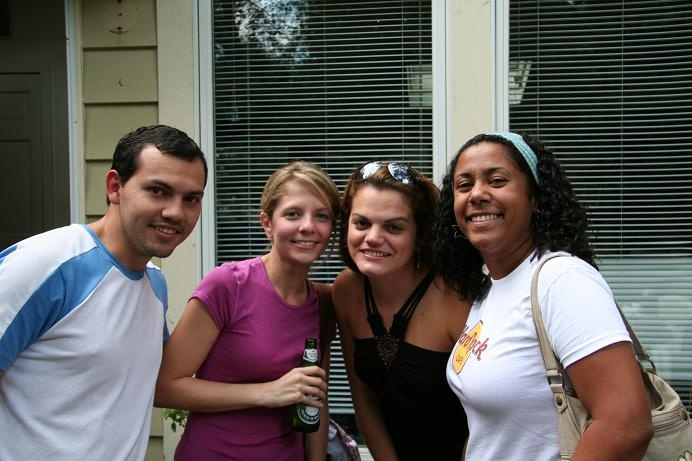
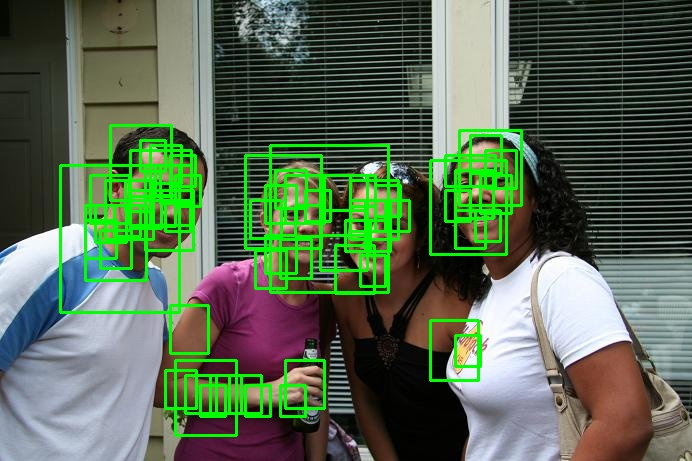
Drawing now works

Changed region(s): [[0.0607, 0.243, 0.4855, 0.9718], [0.3338, 0.2733, 0.7587, 0.6681], [0.6069, 0.6681, 0.698, 0.8503]]

diff --git a/test2.py b/test2.py
@@ -262,10 +262,16 @@ def detect_faces_cascade(image, cascade, scale_factor=1.25, step_size=5, overlap
         normalized_boxesyay = np.array(normalize_boxes(detected_faces, w, h))
         result_boxes, result_scores, result_labels = prepare_boxes(normalized_boxesyay, detected_scores, predicted_labels)
         
-        filtered_boxes = nms_float_fast(result_boxes, detected_scores, overlapThresh)
-        #print("after NMS", len(filtered_boxes))
-    return filtered_boxes
+        keep_indices  = nms_float_fast(result_boxes, detected_scores, overlapThresh)
 
+        filtered_boxes = result_boxes[keep_indices]
+        # Denormalize boxes for drawing
+        final_boxes = []
+        for box in filtered_boxes:
+            x1, y1, x2, y2 = box
+            final_boxes.append([int(x1 * w), int(y1 * h), int(x2 * w), int(y2 * h)])
+
+        return final_boxes
 
 
 
@@ -278,25 +284,26 @@ def calculate_precision_recall(true_positives, false_positives, false_negatives)
     return precision, recall
 
 
+
+
+
 if __name__ == "__main__":
-    # Datasets
+    # Datasets and model loading
     face_photos_dir = os.path.join(data_directory, 'test_face_photos')
     output_dir = os.path.join(data_directory, 'output')
     cropped_faces_dir = os.path.join(data_directory, 'test_cropped_faces')
     nonfaces_dir = os.path.join(data_directory, 'test_nonfaces')
 
-    # Load the model
     model_dataCascade = load_model()
     model = model_dataCascade['model']
     
-    # Ensure output directory exists
     if not os.path.exists(output_dir):
         os.makedirs(output_dir)
 
-    # Import annotations
     annotations = import_annotations(os.path.join(face_photos_dir, 'face_annotations.py'))
     tp_face_photos, fp_face_photos, fn_face_photos = 0, 0, 0
 
+    # Process each image
     for annotation in annotations:
         photo_file_name = annotation['photo_file_name']
         true_faces = annotation['faces']
@@ -307,49 +314,42 @@ if __name__ == "__main__":
             print(f"Failed to load image: {image_path}")
             continue
 
-        print(f"Image loaded successfully: {image_path}")
-
-        detected_faces = detect_faces_cascade(image, model)  # Modified to use the cascade
-        #print("All detected faces:", detected_faces)  # Debug output to see the entire list
+        detected_faces = detect_faces_cascade(image, model)
+        print("after all is said and done we have ", len(detected_faces), " bounding boxes")
+        print("first bounding box ", detected_faces[0])
+        filtered_detected_faces = [box for box in detected_faces if isinstance(box, (list, np.ndarray)) and len(box) == 4]
 
         detected_flags = [False] * len(true_faces)
 
-        for detected_box in detected_faces:
-            if isinstance(detected_box, (list, np.ndarray)) and len(detected_box) == 4:
-                match_found = False
-                for idx, true_box in enumerate(true_faces):
-                    iou = calculate_iou(detected_box, true_box)
-                    if iou > 0.5:
-                        tp_face_photos += 1
-                        detected_flags[idx] = True
-                        match_found = True
-                        break
-                if not match_found:
-                    fp_face_photos += 1
+        for detected_box in filtered_detected_faces:
+            match_found = False
+            for idx, true_box in enumerate(true_faces):
+                iou = calculate_iou(detected_box, true_box)
+                if iou > 0.5:
+                    tp_face_photos += 1
+                    detected_flags[idx] = True
+                    match_found = True
+                    break
+            if not match_found:
+                fp_face_photos += 1
 
-                cv.rectangle(image, (detected_box[0], detected_box[1]), (detected_box[2], detected_box[3]), (0, 255, 0), 2)
-            else:
-                print("Error: Detected box is not in the expected format:", detected_box)
+            cv.rectangle(image, (detected_box[0], detected_box[1]), (detected_box[2], detected_box[3]), (0, 255, 0), 2)
 
         fn_face_photos += detected_flags.count(False)
 
-        # Save the image with bounding boxes
         output_path = os.path.join(output_dir, photo_file_name)
-        if not cv.imwrite(output_path, image):
-            print(f"Failed to save image: {output_path}")
-        else:
-            print(f"Image saved successfully: {output_path}")
+        cv.imwrite(output_path, image)
 
     # Calculate precision and recall for face photos
     precision_face_photos, recall_face_photos = calculate_precision_recall(tp_face_photos, fp_face_photos, fn_face_photos)
 
-    # Calculate precision and recall for cropped faces
+    # Precision and recall for cropped faces
     tp_cropped, fn_cropped = test_cropped_faces(cropped_faces_dir, model)
-    precision_cropped, recall_cropped = calculate_precision_recall(tp_cropped, 0, fn_cropped)  # FP is 0 for cropped faces
+    precision_cropped, recall_cropped = calculate_precision_recall(tp_cropped, 0, fn_cropped)
 
-    # Calculate precision and recall for nonfaces
+    # Precision and recall for nonfaces
     fp_nonfaces = test_nonfaces(nonfaces_dir, model)
-    tn_nonfaces = len(load_test_images(nonfaces_dir)) - fp_nonfaces  # True Negatives in test_nonfaces
+    tn_nonfaces = len(load_test_images(nonfaces_dir)) - fp_nonfaces
 
     # Output performance metrics
     print("\nDataset: Test Face Photos")
